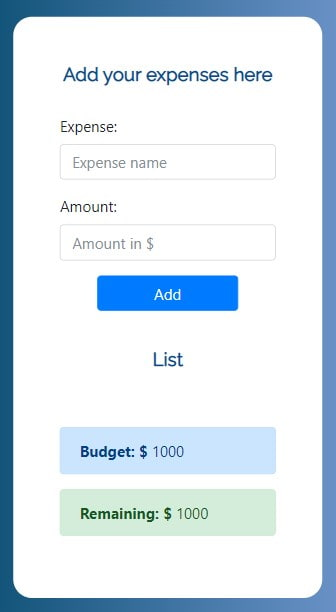
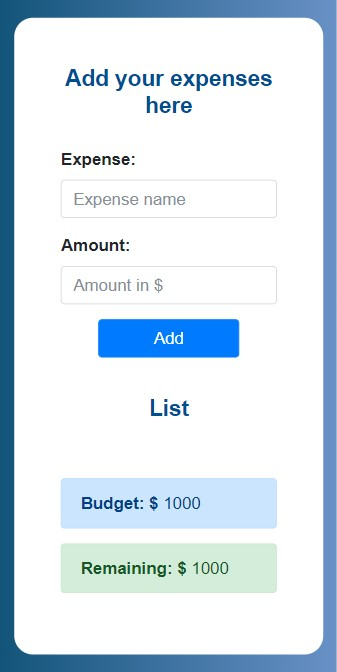
Responsive Design

diff --git a/css/styles.css b/css/styles.css
@@ -177,6 +177,22 @@ p {
   transition-duration: 1s;
   cursor: pointer;
 }
+
+@media screen and (max-width: 767px) {
+  .banner-btn {
+    margin-top: 40px;
+    padding: 1rem 0.5rem;
+    letter-spacing: 0.5px;
+    font-size: 0.8rem;
+    background: #1d4ed8;
+    color: #fff;
+    border: 1px solid #1e40af;
+    border-radius: 5px;
+    transition-duration: 1s;
+    cursor: pointer;
+  }
+}
+
 .banner-btn:hover {
   background: transparent;
   background: #1e40af;
@@ -259,7 +275,7 @@ p {
 .img-container {
   max-height: 100%;
   max-width: 50%;
-  margin-top: -140px;
+  margin-top: -100px;
   display: block;
   margin-left: auto;
   margin-right: auto;
@@ -267,7 +283,13 @@ p {
 
 @media screen and (max-width: 727px) {
   .img-container {
-    margin-top: -50px;
+    display: none;
+  }
+}
+
+@media screen and (min-width: 727px) and (max-width: 1023px) {
+  .img-container {
+    margin-top: -400px;
     max-height: 100%;
     max-width: 80%;
     border-radius: 1px;
@@ -275,17 +297,9 @@ p {
     margin-left: auto;
     margin-right: auto;
   }
-}
 
-@media screen and (min-width: 727px) and (max-width: 1023px) {
-  .img-container {
-    margin-top: -250px;
-    max-height: 100%;
-    max-width: 80%;
-    border-radius: 1px;
-    display: block;
-    margin-left: auto;
-    margin-right: auto;
+  .banner {
+    margin-top: -400px;
   }
 }
 
@@ -332,11 +346,12 @@ p {
   }
 
   .budget-smart {
-    height: 140px;
-    width: auto;
     display: block;
-    margin-top: -70px;
-    margin-left: 73%;
+    margin-top: -30px;
+    margin-left: auto;
+    margin-right: auto;
+    height: 320px;
+    width: 180px;
   }
 }
 
@@ -413,7 +428,7 @@ p {
   }
 
   .budget-smart {
-    height: 340px;
+    height: 380px;
     width: auto;
     display: block;
     margin-top: -270px;
@@ -553,6 +568,19 @@ y dice software developer
 /********** Estilos para el main de la página **********/
 /* ***** end header ***** */
 
+/* ***** Hero Svh ******/
+
+.hero-svg {
+  position: absolute;
+  height: 160px;
+  width: auto;
+  display: block;
+  margin-top: 40px;
+  margin-left: 0%;
+}
+
+/* ***** Hero Svh ******/
+
 /* ******** Flex container ******** */
 
 .flex-container {
@@ -581,6 +609,14 @@ y dice software developer
   .text-container-flex {
     font-size: 1rem;
   }
+
+  .hero-svg {
+    position: absolute;
+    height: 100px;
+    width: auto;
+    margin-top: 120px;
+    margin-left: -20px;
+  }
 }
 /* ******** End Version Movile ******** */
 
@@ -602,6 +638,14 @@ y dice software developer
   .text-container-flex {
     font-size: 1rem;
     margin-right: 100px;
+  }
+
+  .hero-svg {
+    position: absolute;
+    height: 150px;
+    width: auto;
+    margin-top: 120px;
+    margin-left: 30px;
   }
 }
 

diff --git a/budget.html b/budget.html
@@ -27,7 +27,7 @@
               <h2 class="text-center">Add your expenses here</h2>
               <form id="agregar-gasto" action="#">
                 <div class="form-group">
-                  <label for="gasto">Expense:</label>
+                  <label for="gasto" class="gasto">Expense:</label>
                   <input
                     type="text"
                     class="form-control"
@@ -36,7 +36,7 @@
                   />
                 </div>
                 <div class="form-group">
-                  <label for="cantidad">Amount:</label>
+                  <label for="cantidad" class="gasto">Amount:</label>
                   <input
                     type="text"
                     class="form-control"
@@ -63,10 +63,14 @@
               </div>
               <div id="presupuesto" class="presupuesto">
                 <div class="alert alert-primary">
-                  <p>Budget: $ <span id="total"></span></p>
+                  <p class="total">
+                    Budget: $ <span id="total" class="total"></span>
+                  </p>
                 </div>
                 <div class="restante alert alert-success">
-                  <p>Remaining: $ <span id="restante"></span></p>
+                  <p class="total">
+                    Remaining: $ <span id="restante" class="total"></span>
+                  </p>
                 </div>
               </div>
               <!--.presupuesto-->

diff --git a/css/custom.css b/css/custom.css
@@ -1,3 +1,6 @@
+* {
+  font-family: Arial, Helvetica, sans-serif;
+}
 body {
   background: #000428; /* fallback for old browsers */
   background: -webkit-linear-gradient(to right, #13547a, #6991c7);
@@ -15,6 +18,12 @@ header {
   padding: 30px;
   border-radius: 20px;
 }
+
+.gasto {
+  font-size: 18px;
+  font-weight: bold;
+}
+
 .presupuesto p {
   margin-bottom: 0;
   font-weight: bold;
@@ -38,16 +47,21 @@ h2 {
   margin-bottom: 30px;
 }
 
+.btn-width {
+  font-size: 18px;
+}
+
 /* Queries */
 
 @media screen and (max-width: 767px) {
   .container {
-    margin-top: 7vh;
+    margin-top: 4vh;
   }
 
   .text-center {
-    font-size: 20px;
-    font-weight: 600;
+    font-family: Arial, Helvetica, sans-serif;
+    font-size: 24px;
+    font-weight: 700;
   }
 
   .btn-width {
@@ -77,7 +91,8 @@ h2 {
   }
 
   .text-center {
-    font-size: 22px;
+    font-family: Arial, Helvetica, sans-serif;
+    font-size: 26px;
     font-weight: 600;
   }
 
@@ -87,4 +102,16 @@ h2 {
     margin-right: auto;
     width: 150px;
   }
+}
+
+.form-control {
+  font-size: 18px;
+}
+
+.total {
+  font-size: 18px;
+}
+
+.primary-btn {
+  font-size: 200px;
 }

diff --git a/index.html b/index.html
@@ -44,11 +44,14 @@
         </nav>
       </section>
     </header>
+
     <!--  Hero Image -->
 
     <header class="hero">
       <div class="banner">
         <h1 class="banner-title">Enjoy managing your finances</h1>
+        <!-- End Hero Image -->
+        <img src="./images/graph-man.svg" class="hero-svg" alt="Graph man" />
         <p class="banner-paragraph container">
           Actual is a super fast privacy-focused app for managing your
           finances.Your own your data, and we will sync it across all devices
@@ -62,7 +65,6 @@
         </p>
       </div>
     </header>
-    <!-- End Hero Image -->
 
     <!-- Container Image -->
     <div class="img-container">
@@ -98,6 +100,7 @@
         </div>
       </div>
     </section>
+
     <!--  End Flex Container -->
 
     <!--   <button class="dark-theme-btn">🌙</button> -->
